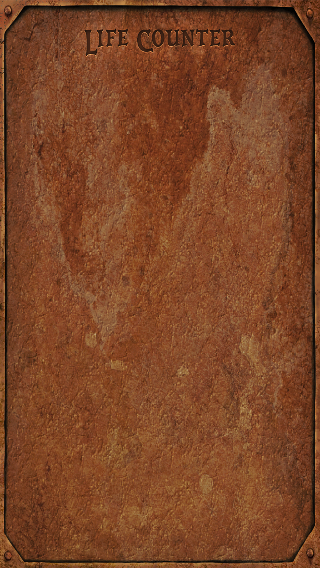
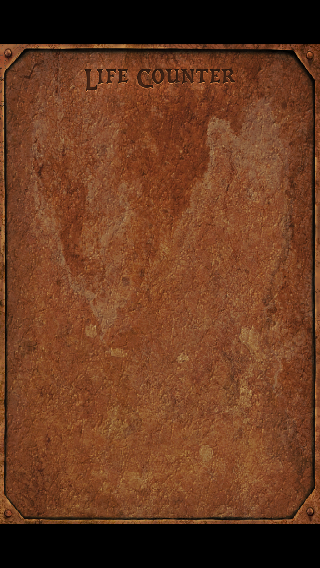
4 inch layout

diff --git a/MTG LifeCounter/ViewController.m b/MTG LifeCounter/ViewController.m
@@ -45,23 +45,31 @@
 {
     [super viewDidLoad];
     
-    y_scale = [UIScreen mainScreen].bounds.size.height / 1024;
-	x_scale = [UIScreen mainScreen].bounds.size.width / 768;
+    CGRect frame = [UIScreen mainScreen].bounds;
+    if(frame.size.height/frame.size.width > 480/320)
+    {
+        frame.size.height = frame.size.width * 480 / 320;
+        frame.origin.y = ([UIScreen mainScreen].bounds.size.height - frame.size.height)/2;
+    }
+    y_scale = frame.size.height / 1024;
+	x_scale = frame.size.width / 768;
     
     current_player = 0;
     playerIsSelected = false;
     
-    UIImageView *main = [[UIImageView alloc] initWithFrame:self.view.frame];
-    main.image = [UIImage imageNamed:@"Background.png"];
-    self.view = main;
+    UIImageView *blackField = [[UIImageView alloc] initWithFrame:self.view.frame];
+    self.view = blackField;
     [self.view setUserInteractionEnabled:true];
-    
+    UIImageView *main = [[UIImageView alloc] initWithFrame:frame];
+    main.image = [UIImage imageNamed:@"Background.png"];
+    [self.view addSubview:main];
+    NSLog(@"Main Frame: %g x %g", main.frame.size.width, main.frame.size.height);
     
     
     //NSLog(@"Create CardView");
-    card = [[CardView alloc] initWithFrame:self.view.frame];
+    card = [[CardView alloc] initWithFrame:frame];
     card.backgroundImage = [UIImage imageNamed:@"Field.png"];
-    card.frame = CGRectMake(140.0 * x_scale, 110.0 * y_scale, card.backgroundImage.size.width * x_scale, card.backgroundImage.size.height * y_scale);
+    card.frame = CGRectMake(140.0 * x_scale, 110.0 * y_scale + main.frame.origin.y, card.backgroundImage.size.width * x_scale, card.backgroundImage.size.height * y_scale);
     card.margin = 2;
     card.font = [UIFont fontWithName:@"GaramondPremrPro-Smbd" size:70 * x_scale];
     card.linesColor = [UIColor clearColor];
@@ -71,7 +79,7 @@
     card.parent = self;
     [self.view addSubview:card];
     
-    float bottomBaseLine = card.frame.origin.y + card.frame.size.height + ([UIScreen mainScreen].bounds.size.height - (card.frame.origin.y + card.frame.size.height)) / 2.3;
+    float bottomBaseLine = card.frame.origin.y + card.frame.size.height + (frame.size.height - (card.frame.origin.y - frame.origin.y + card.frame.size.height)) / 2.3;
     
     // +20/-20
     UIImageView *btn20back = [[UIImageView alloc] initWithImage:[UIImage imageNamed:@"Btn20Back.png"]];
@@ -172,13 +180,13 @@
 
     // Dice default pos area
     UIButton *dicePosArea = [UIButton buttonWithType:UIButtonTypeCustom];
-    dicePosArea.frame = CGRectMake(self.view.bounds.size.width - DICE_AREA_X_OFFSET - DICE_AREA_SIZE, self.view.bounds.size.height - DICE_AREA_Y_OFFSET - DICE_AREA_SIZE, DICE_AREA_SIZE, DICE_AREA_SIZE);
+    dicePosArea.frame = CGRectMake(frame.size.width - DICE_AREA_X_OFFSET - DICE_AREA_SIZE, frame.size.height - DICE_AREA_Y_OFFSET - DICE_AREA_SIZE + frame.origin.y, DICE_AREA_SIZE, DICE_AREA_SIZE);
     [dicePosArea addTarget:self action:@selector(diceAreaTouched:) forControlEvents:UIControlEventTouchUpInside];
     //dicePosArea.backgroundColor = CardNumbersColor;
     [self.view addSubview:dicePosArea];
     
     // Dice GL
-    glView = [[DiceView alloc] initWithFrame:self.view.bounds];
+    glView = [[DiceView alloc] initWithFrame:frame];
     [self.view addSubview:glView];
     glView.backgroundColor = [UIColor clearColor];
     [glView setDiceDefaultPlace:CGPointMake(glView.bounds.size.width - DICE_POS_X_OFFSET, glView.bounds.size.height - DICE_POS_Y_OFFSET)];

diff --git a/MTG LifeCounter/DiceView.m b/MTG LifeCounter/DiceView.m
@@ -595,7 +595,7 @@
         // translate to scene coords
         CGPoint pos = marbles[i];
         float mx = (pos.x - self.bounds.size.width/2)/self.bounds.size.width*PV_WIDTH*SHIFT_Z/NEAR;
-        float my = -(pos.y - self.bounds.size.height/2)/self.bounds.size.height*PV_HEIGTH*SHIFT_Z/NEAR;
+        float my = -(pos.y - self.frame.origin.y - self.bounds.size.height/2)/self.bounds.size.height*PV_HEIGTH*SHIFT_Z/NEAR;
         marblesCoords[i] = CGPointMake(mx, my);
         //NSLog(@"Marble coord: [%g, %g]", mx, my);
         
